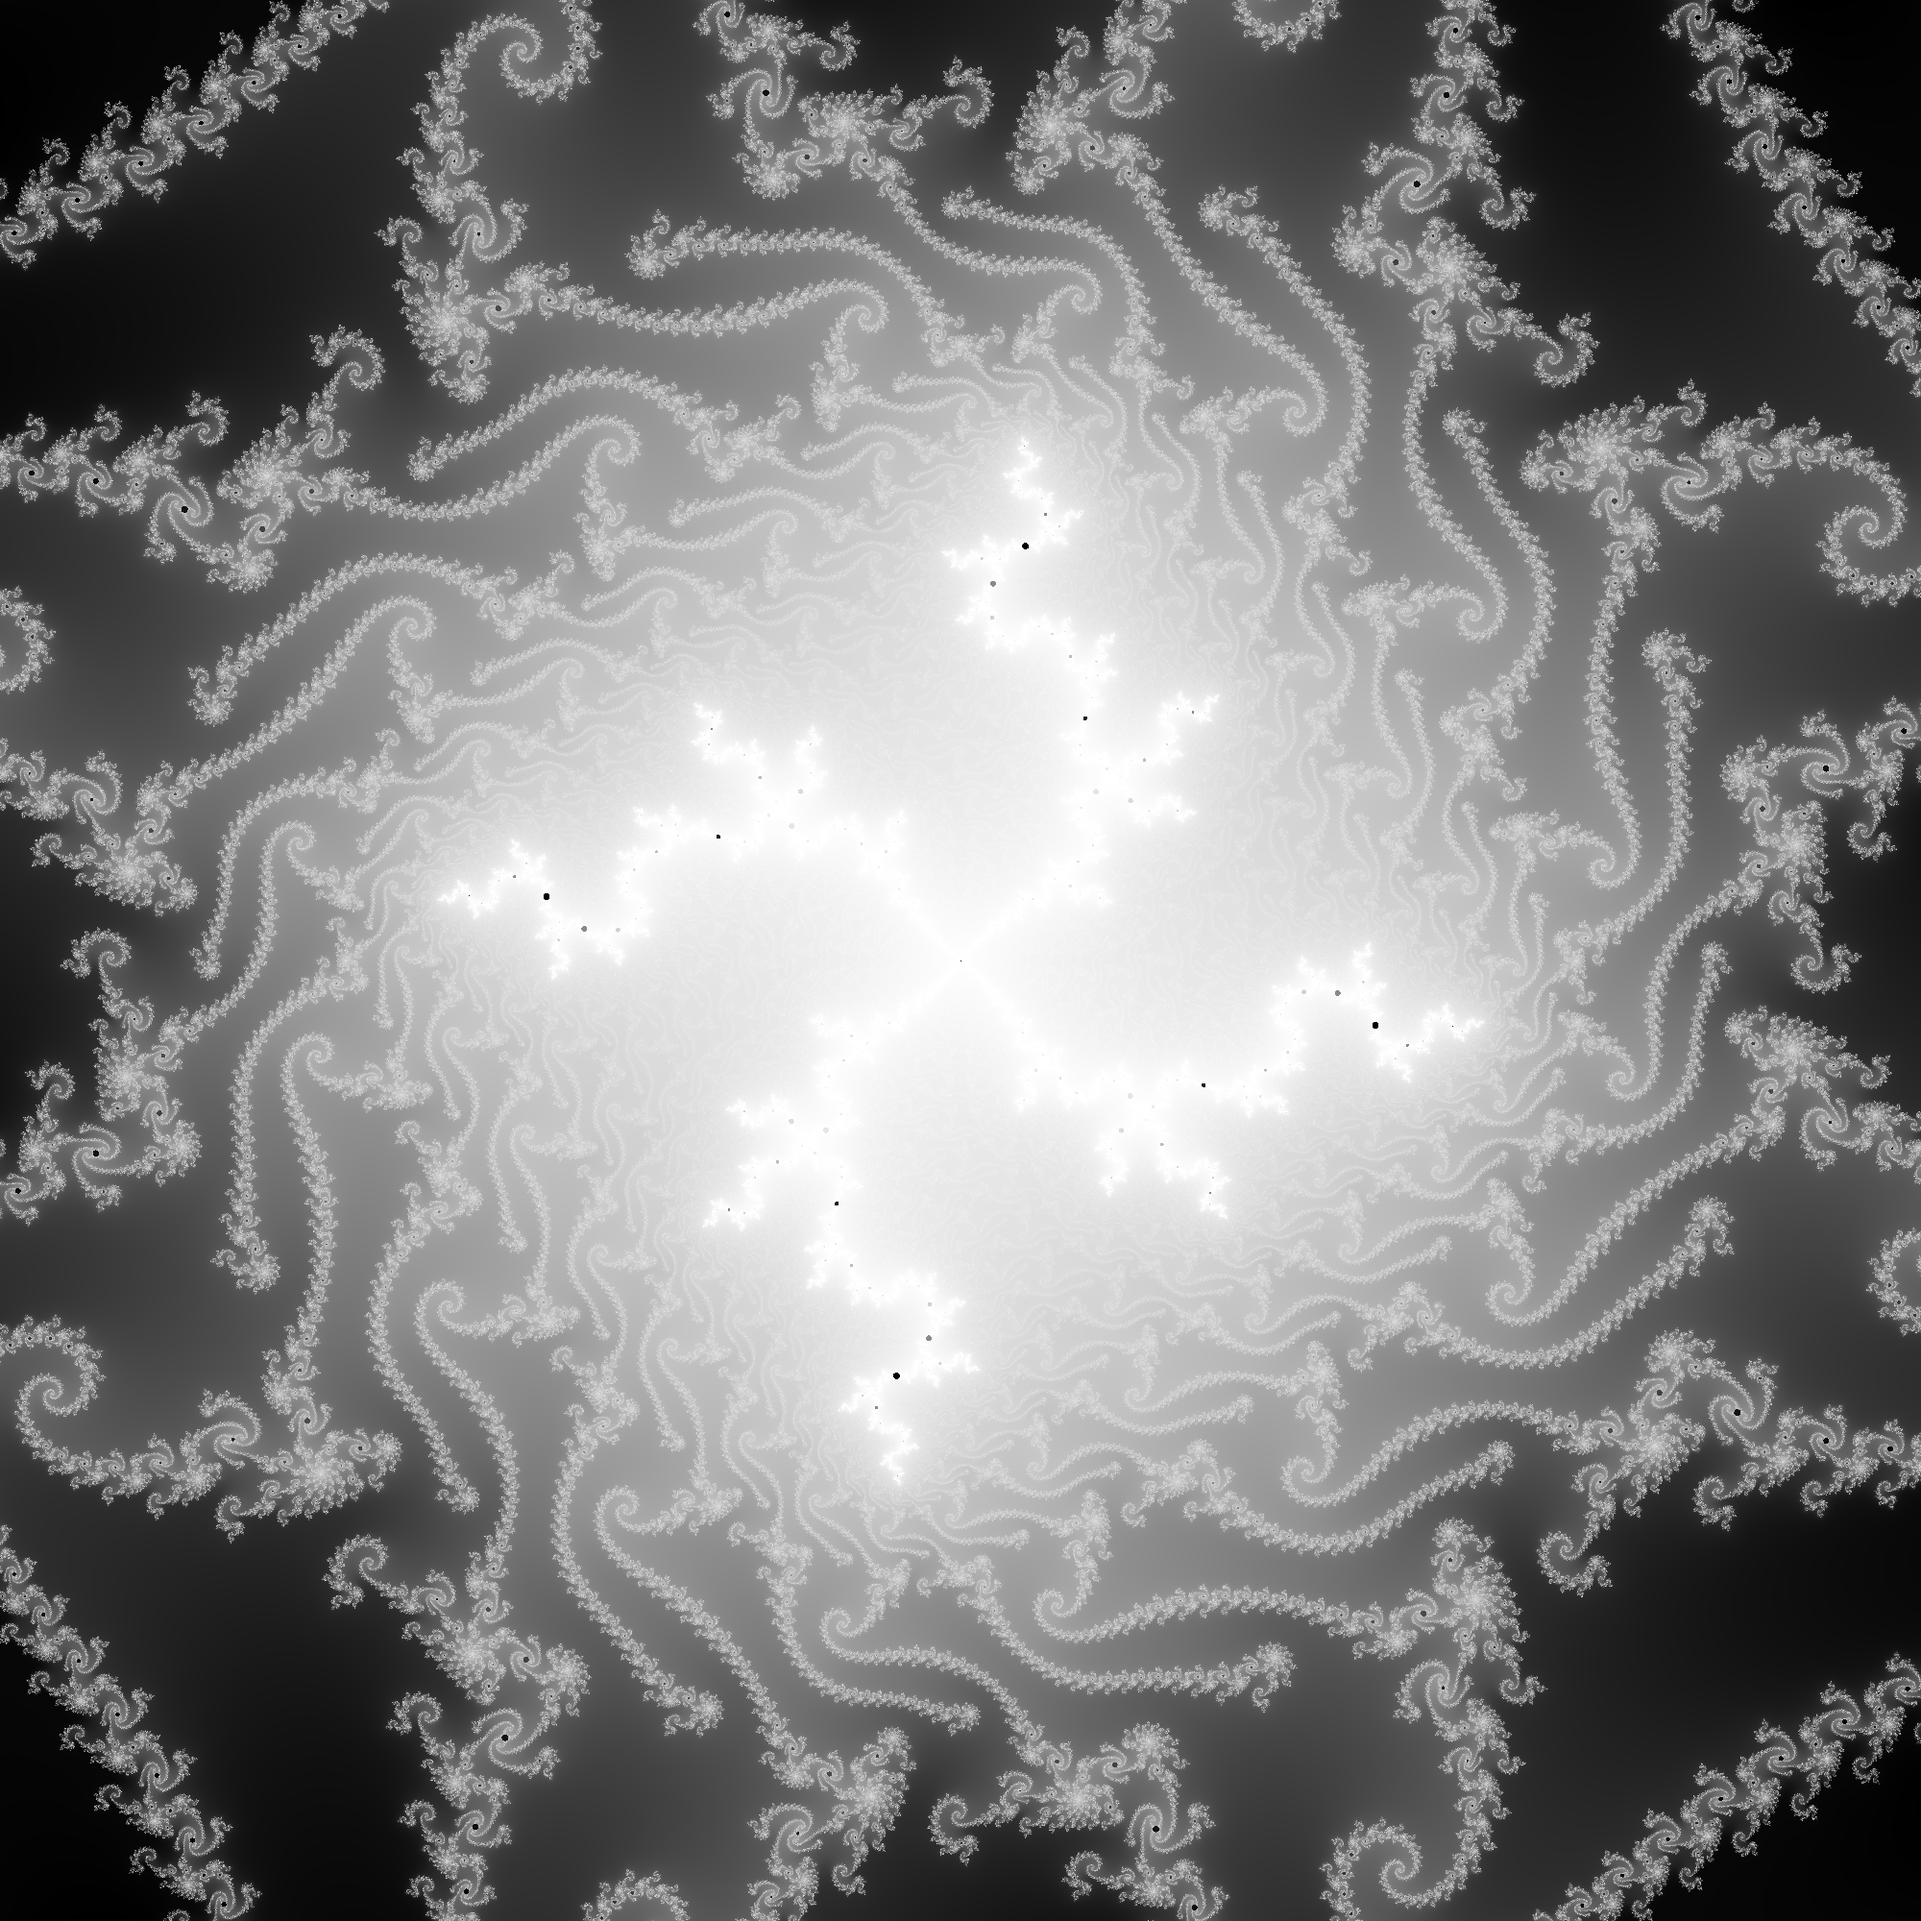
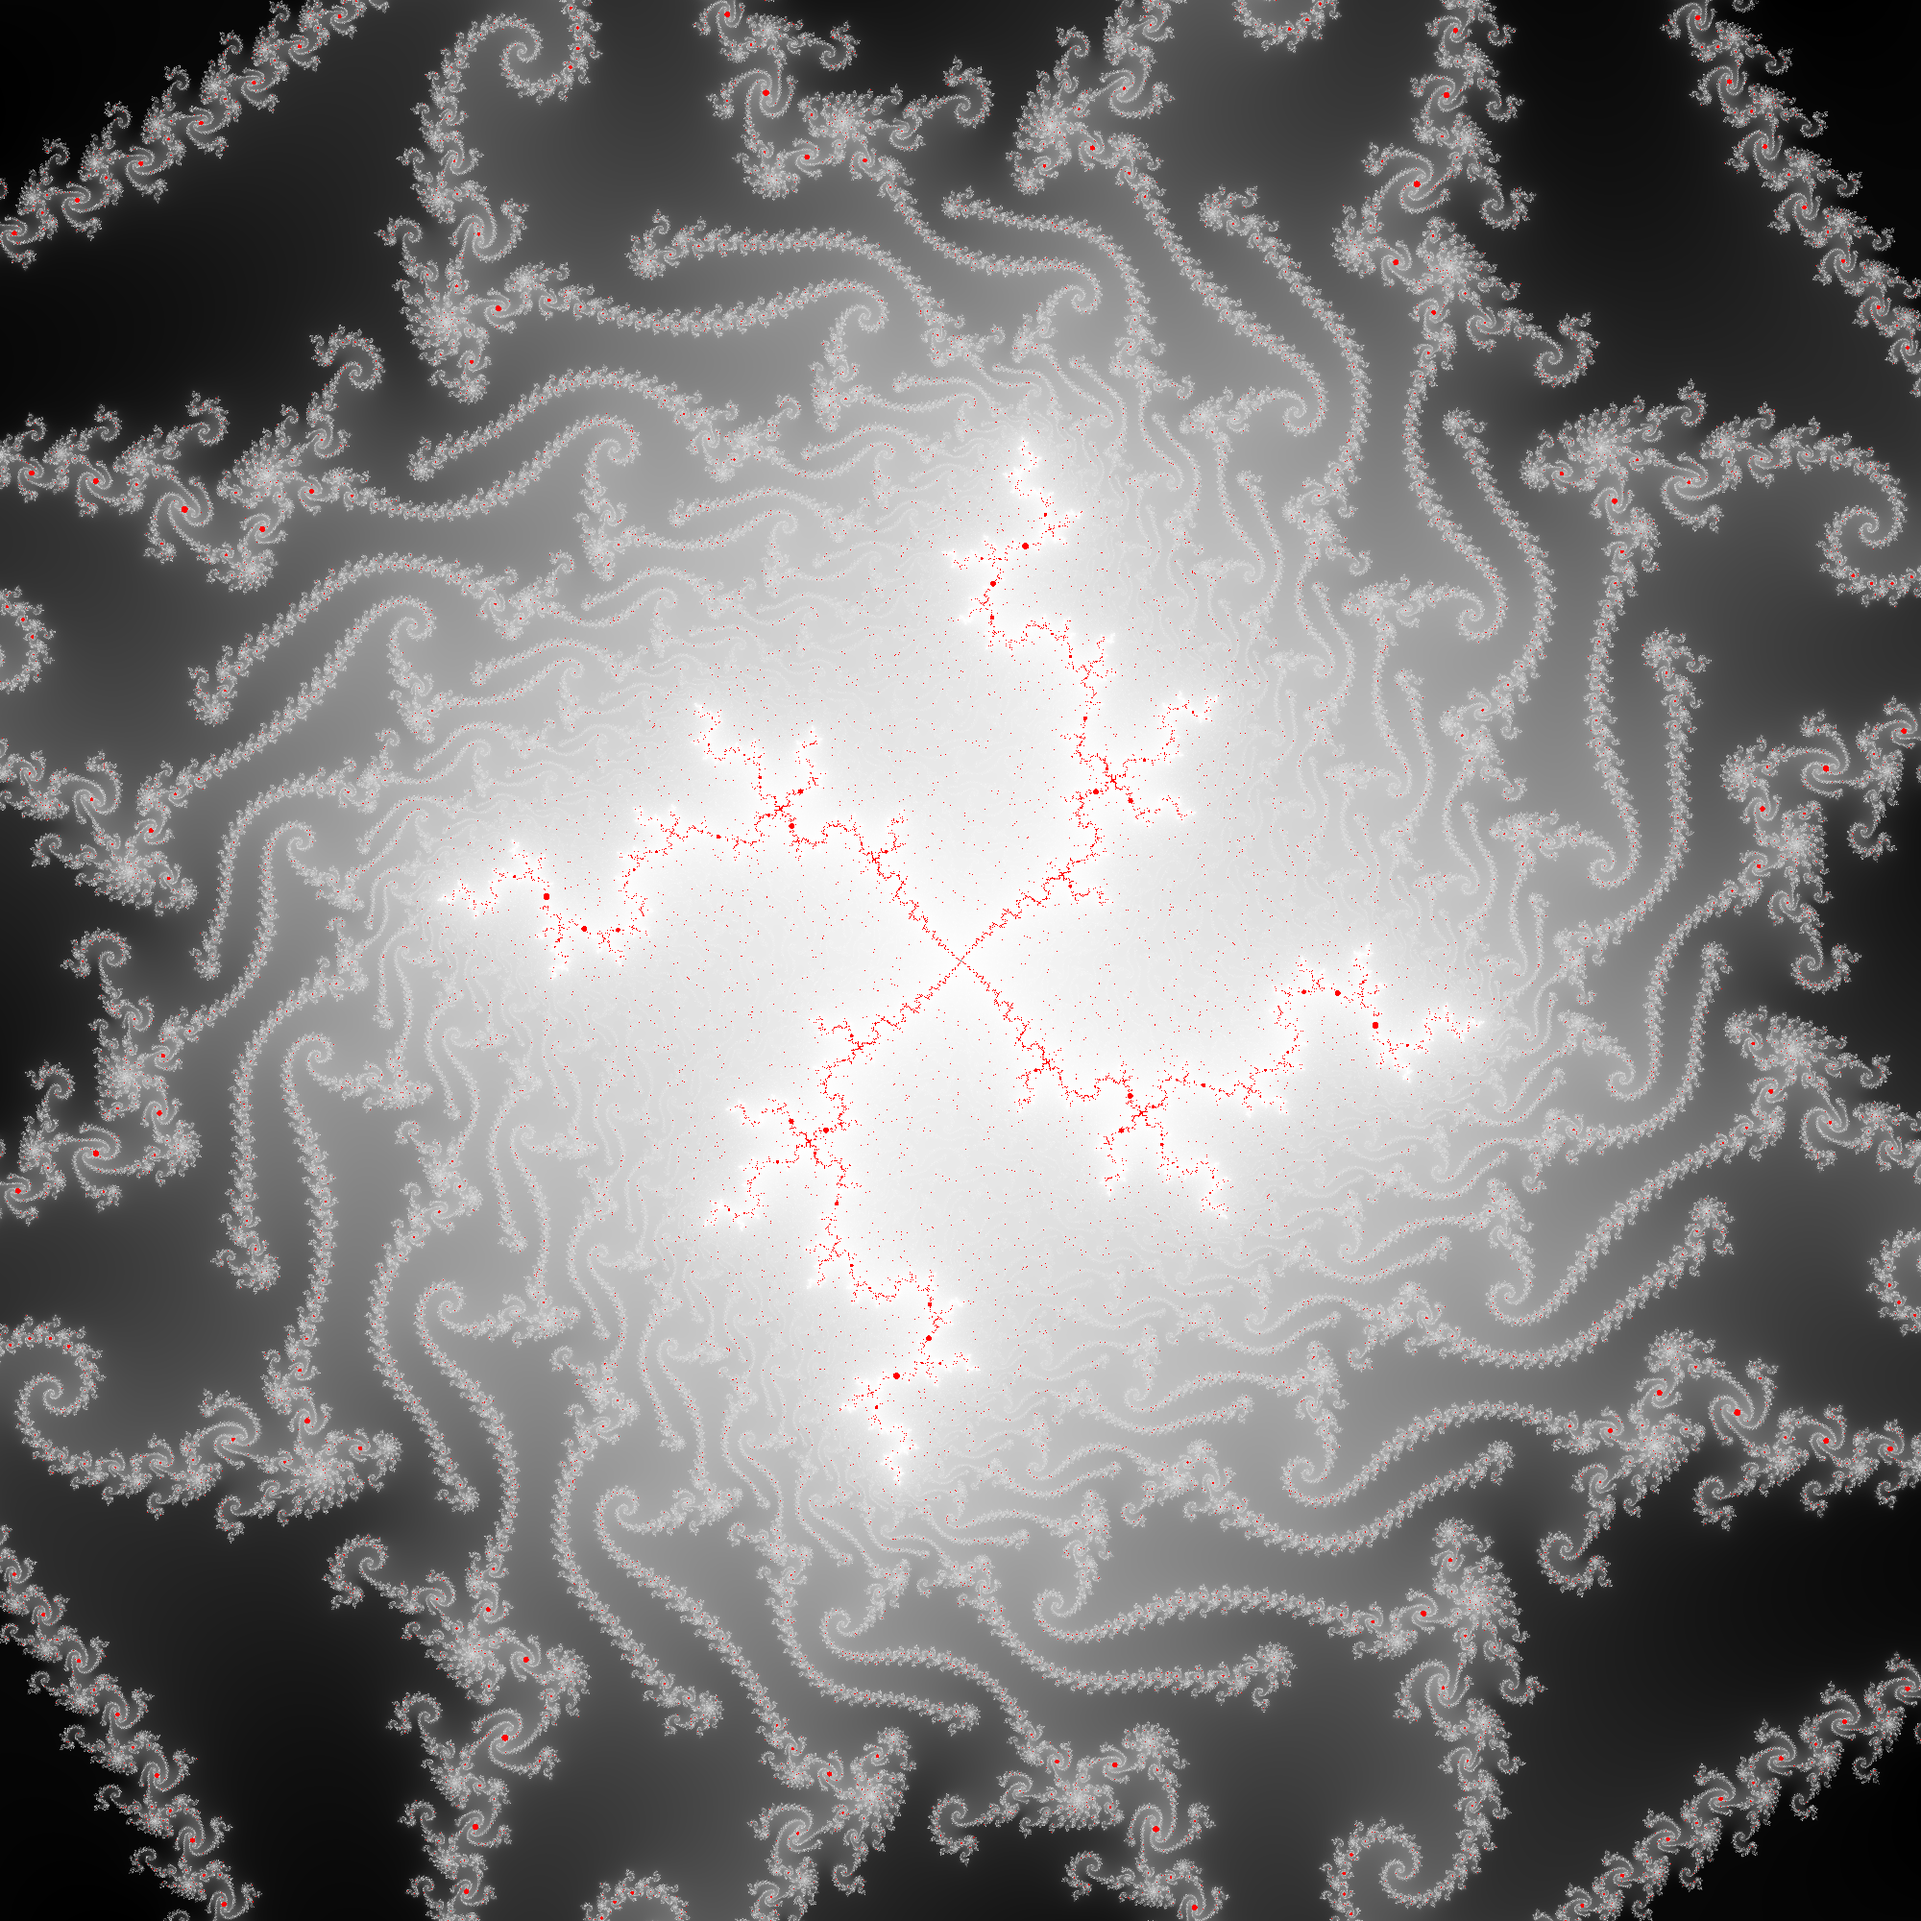
Added SIMD to parallel algorithm.

diff --git a/src/renderer.rs b/src/renderer.rs
@@ -1,8 +1,11 @@
-use rug::Complex;
+use rug::{Complex, Float};
 use rayon::prelude::*;
 use packed_simd::*;
 use std::f64::consts::LN_2;
-use crate::complex::ComplexF64;
+use crate::complex::{ComplexF64, ComplexVector};
+use std::time::Instant;
+
+pub type FloatVector = f64x8;
 
 pub struct Point {
     pub delta: ComplexF64,
@@ -10,7 +13,14 @@ pub struct Point {
     pub glitched: bool
 }
 
+pub struct PointVector {
+    pub delta: ComplexVector,
+    pub index: Vec<usize>,
+    pub glitched: bool
+}
+
 impl Point {
+    // start_delta is the delta from reference of point (0, 0) in the image
     pub fn new(image_x: usize, image_y: usize, image_width: usize, resolution: f64, start_delta: ComplexF64) -> Self {
         Point {
             delta: ComplexF64::new(image_x as f64 * resolution + start_delta.real, image_y as f64 * resolution + start_delta.imaginary),
@@ -72,12 +82,14 @@ impl Renderer {
 //        while remaining_points.len() > 1000 {
             self.reference_points += 1;
             self.calculate_reference();
-            let iterations = self.calculate_perturbations(&mut remaining_points);
+            let iterations = self.calculate_perturbations_parallel_vectorised(&mut remaining_points);
 
 
 //        }
 
         // go through points - complex, index
+
+        // here the calculate_perturbations function returns only iterations and glitched for remaining_points
 
         let mut iteration_counts = vec![0usize; self.maximum_iterations + 1];
 
@@ -92,7 +104,11 @@ impl Renderer {
         let mut total = iteration_counts[self.maximum_iterations - 1];
 
         for i in 0..remaining_points.len() {
-            if iterations[i].0.floor() >= self.maximum_iterations as f64 {
+            if iterations[i].1 {
+                image[3 * i] = 255u8;
+                image[3 * i + 1] = 0u8;
+                image[3 * i + 2] = 0u8;
+            } else if iterations[i].0.floor() >= self.maximum_iterations as f64 {
                 image[3 * i] = 0u8;
                 image[3 * i + 1] = 0u8;
                 image[3 * i + 2] = 0u8;
@@ -114,7 +130,8 @@ impl Renderer {
     }
 
     pub fn calculate_reference(&mut self) {
-        println!("Calculating reference: {}", self.reference);
+        println!("Location: \n{}", self.reference);
+        let start = Instant::now();
         let glitch_tolerance = 1e-3;
 
         // Clear both buffers for new values
@@ -130,10 +147,11 @@ impl Renderer {
 
             z = z.square() + &self.reference
         }
+        println!("Reference: {} ms", start.elapsed().as_millis());
     }
 
-    pub fn calculate_perturbations(&mut self, points: &mut Vec<Point>) -> Vec<(f64, bool)> {
-        let test = points.into_par_iter()
+    pub fn calculate_perturbations_single(&mut self, points: &mut Vec<Point>) -> Vec<(f64, bool)> {
+        let test = points.into_iter()
             .map(|point| {
                 let mut delta_n = point.delta;
                 let mut iteration = 0;
@@ -162,5 +180,111 @@ impl Renderer {
             .collect::<Vec<(f64, bool)>>();
 
         test
+    }
+
+    pub fn calculate_perturbations_parallel(&mut self, points: &mut Vec<Point>) -> Vec<(f64, bool)> {
+        let start = Instant::now();
+        let test = points.into_par_iter()
+                         .map(|point| {
+                             let mut delta_n = point.delta;
+                             let mut iteration = 0;
+                             let mut glitched = false;
+                             let mut z_norm = 0.0;
+
+                             while z_norm < 256.0 && iteration < self.maximum_iterations {
+                                 delta_n = self.x_n_2[iteration] * delta_n + delta_n * delta_n + point.delta;
+
+                                 iteration += 1;
+                                 z_norm = (self.x_n[iteration] + delta_n).norm();
+
+//                     glitch detection
+                                 if z_norm < self.tolerance_check[iteration] {
+                                     glitched = true;
+                                     break;
+                                 }
+                             }
+
+                             if iteration >= self.maximum_iterations || glitched {
+                                 (iteration as f64, glitched)
+                             } else {
+                                 (iteration as f64 + 1.0 - (z_norm.log2() / 2.0).log2(), glitched)
+                             }
+                         })
+                         .collect::<Vec<(f64, bool)>>();
+
+        println!("Iterating: {} ms", start.elapsed().as_millis());
+        test
+    }
+
+    pub fn calculate_perturbations_parallel_vectorised(&mut self, points: &mut Vec<Point>) -> Vec<(f64, bool)> {
+        // here we pack the points into vectorised points
+        // possibly only works on image sizes that are multiples of the vector lanes
+        // TODO investigate adding this earlier so that the vector of points never needs to be constructed
+
+        let start = Instant::now();
+        let points_vectors = (0..points.len())
+            .step_by(8)
+            .map(|i| {
+
+                let delta_real = (0..8)
+                    .map(|j| {
+                        points[i + j].delta.real
+                    })
+                    .collect::<Vec<f64>>();
+
+                let delta_imag = (0..8)
+                    .map(|j| {
+                        points[i + j].delta.imaginary
+                    })
+                    .collect::<Vec<f64>>();
+
+                ComplexVector::new(
+                    FloatVector::from_slice_unaligned(delta_real.as_slice()),
+                    FloatVector::from_slice_unaligned(delta_imag.as_slice()))
+            })
+            .collect::<Vec<ComplexVector>>();
+
+        println!("Packing: {} ms", start.elapsed().as_millis());
+        let start = Instant::now();
+        let mut iterations = vec![0.0f64; points_vectors.len()];
+        let mut glitched = vec![false; points_vectors.len()];
+
+        let values = points_vectors.into_par_iter()
+                         .map(|point_vector| {
+                             let mut delta_n = point_vector;
+                             let mut iterations = f64x8::splat(0.0);
+                             let mut glitched = m64x8::splat(false);
+                             let mut z_norm = f64x8::splat(0.0);
+                             let mut mask = m64x8::splat(true);
+
+                             for iteration in 0..self.maximum_iterations {
+                                 delta_n = ComplexVector::splat(self.x_n_2[iteration]) * delta_n + delta_n * delta_n + point_vector;
+                                 z_norm = mask.select((ComplexVector::splat(self.x_n[iteration + 1]) + delta_n).norm(), z_norm);
+                                 mask = z_norm.le(f64x8::splat(256.0));
+                                 // here keep all glitched points. We keep iterating even if all points are glitched as they might be used in the final image
+                                 glitched = glitched.select(m64x8::splat(true), z_norm.le(f64x8::splat(self.tolerance_check[iteration + 1])));
+
+                                 if mask.none() {
+                                     break;
+                                 }
+
+                                 iterations += mask.select(f64x8::splat(1.0), f64x8::splat(0.0))
+                             }
+
+                             let nu = f64x8::splat(1.0) - (z_norm.ln() / f64x8::splat(2.0 * LN_2)).ln() / f64x8::splat(LN_2);
+                             let out = iterations + mask.select(f64x8::splat(0.0), nu);
+
+                             let mut test = Vec::new();
+
+                             for i in 0..8 {
+                                 test.push((out.extract(i), glitched.extract(i)))
+                             }
+                             test
+                         })
+                         .flatten()
+                         .collect::<Vec<(f64, bool)>>();
+        println!("Iterating: {} ms", start.elapsed().as_millis());
+        values
+
     }
 }

diff --git a/src/complex.rs b/src/complex.rs
@@ -1,4 +1,5 @@
 use rug::Float;
+use crate::renderer::FloatVector;
 
 #[derive(Copy, Clone)]
 pub struct ComplexF64 {
@@ -93,6 +94,112 @@ impl std::ops::MulAssign<ComplexF64> for ComplexF64 {
 impl std::ops::AddAssign<ComplexF64> for ComplexF64 {
     fn add_assign(&mut self, other: ComplexF64) {
         *self = ComplexF64 {
+            real: self.real * other.real,
+            imaginary: self.imaginary * other.imaginary
+        }
+    }
+}
+
+#[derive(Copy, Clone)]
+pub struct ComplexVector {
+    pub real: FloatVector,
+    pub imaginary: FloatVector
+}
+
+impl ComplexVector {
+    pub fn new(real: FloatVector, imaginary: FloatVector) -> Self {
+        ComplexVector {
+            real,
+            imaginary
+        }
+    }
+
+    pub fn splat(value: ComplexF64) -> Self {
+        ComplexVector {
+            real: FloatVector::splat(value.real),
+            imaginary: FloatVector::splat(value.imaginary)
+        }
+    }
+
+    pub fn norm(&self) -> FloatVector {
+        self.real * self.real + self.imaginary * self.imaginary
+    }
+
+    pub fn square(&self) -> ComplexVector {
+        ComplexVector {
+            real: self.real * self.real - self.imaginary * self.imaginary,
+            imaginary: 2.0 * self.real * self.imaginary
+        }
+    }
+}
+
+impl std::ops::Add<ComplexVector> for ComplexVector {
+    type Output = ComplexVector;
+
+    fn add(self, other: ComplexVector) -> ComplexVector {
+        ComplexVector {
+            real: self.real + other.real,
+            imaginary: self.imaginary + other.imaginary
+        }
+    }
+}
+
+impl std::ops::Mul<ComplexVector> for ComplexVector {
+    type Output = ComplexVector;
+
+    fn mul(self, other: ComplexVector) -> ComplexVector {
+        ComplexVector {
+            real: self.real * other.real - self.imaginary * other.imaginary,
+            imaginary: self.real * other.imaginary + self.imaginary * other.real
+        }
+    }
+}
+
+impl std::ops::Mul<f64> for ComplexVector {
+    type Output = ComplexVector;
+
+    fn mul(self, other: f64) -> ComplexVector {
+        ComplexVector {
+            real: self.real * other,
+            imaginary: self.imaginary * other
+        }
+    }
+}
+
+impl std::ops::Mul<ComplexVector> for f64 {
+    type Output = ComplexVector;
+
+    fn mul(self, other: ComplexVector) -> ComplexVector {
+        ComplexVector {
+            real: self * other.real,
+            imaginary: self * other.imaginary
+        }
+    }
+}
+
+impl std::ops::Sub<ComplexVector> for ComplexVector {
+    type Output = ComplexVector;
+
+    fn sub(self, other: ComplexVector) -> ComplexVector {
+        ComplexVector {
+            real: self.real - other.real,
+            imaginary: self.imaginary - other.imaginary
+        }
+    }
+}
+
+impl std::ops::MulAssign<ComplexVector> for ComplexVector {
+    fn mul_assign(&mut self, other: ComplexVector) {
+        *self = ComplexVector {
+            real: self.real * other.real - self.imaginary * other.imaginary,
+            imaginary: self.real * other.imaginary + self.imaginary * other.real
+        }
+    }
+}
+
+impl std::ops::AddAssign<ComplexVector> for ComplexVector {
+    fn add_assign(&mut self, other: ComplexVector) {
+        *self = ComplexVector {
             real: self.real * other.real,
             imaginary: self.imaginary * other.imaginary
         }

diff --git a/src/bin/main.rs b/src/bin/main.rs
@@ -1,7 +1,5 @@
 use std::time::Instant;
-
 use rust_fractal::renderer::Renderer;
-
 
 fn main() {
     let width: usize = 2000;
@@ -20,5 +18,10 @@ fn main() {
         320
     );
 
+    let time = Instant::now();
     renderer.render();
+    println!("Rendering took: {} ms", time.elapsed().as_millis());
+
+    // simple multithreading takes 13-15 sec f64
+    // single threading takes 84 sec f64
 }
